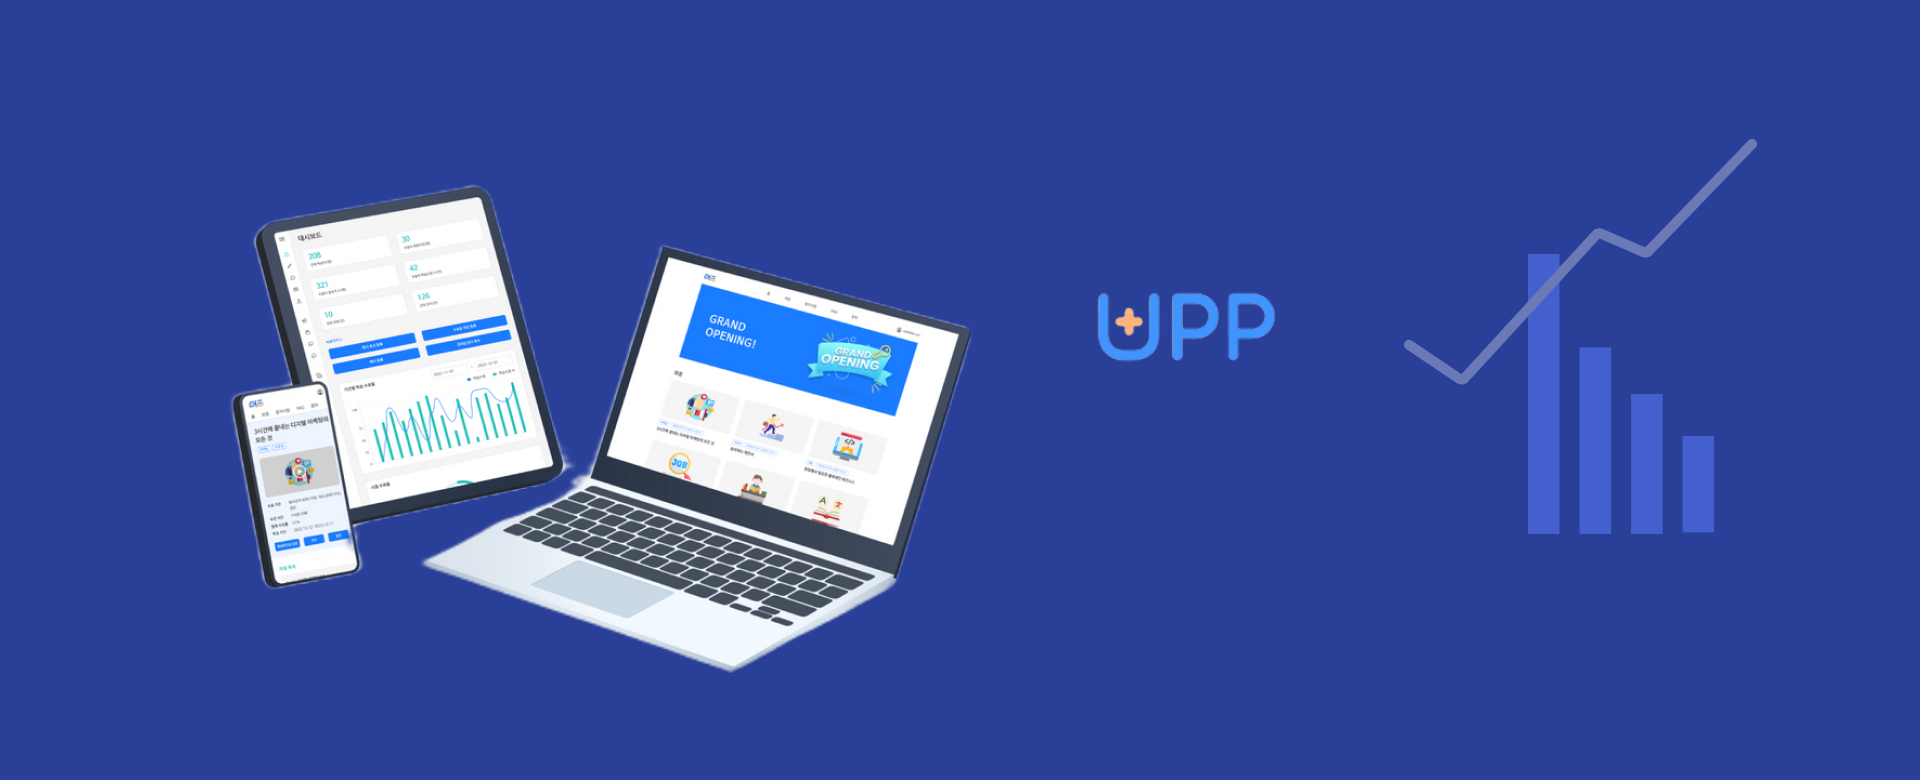
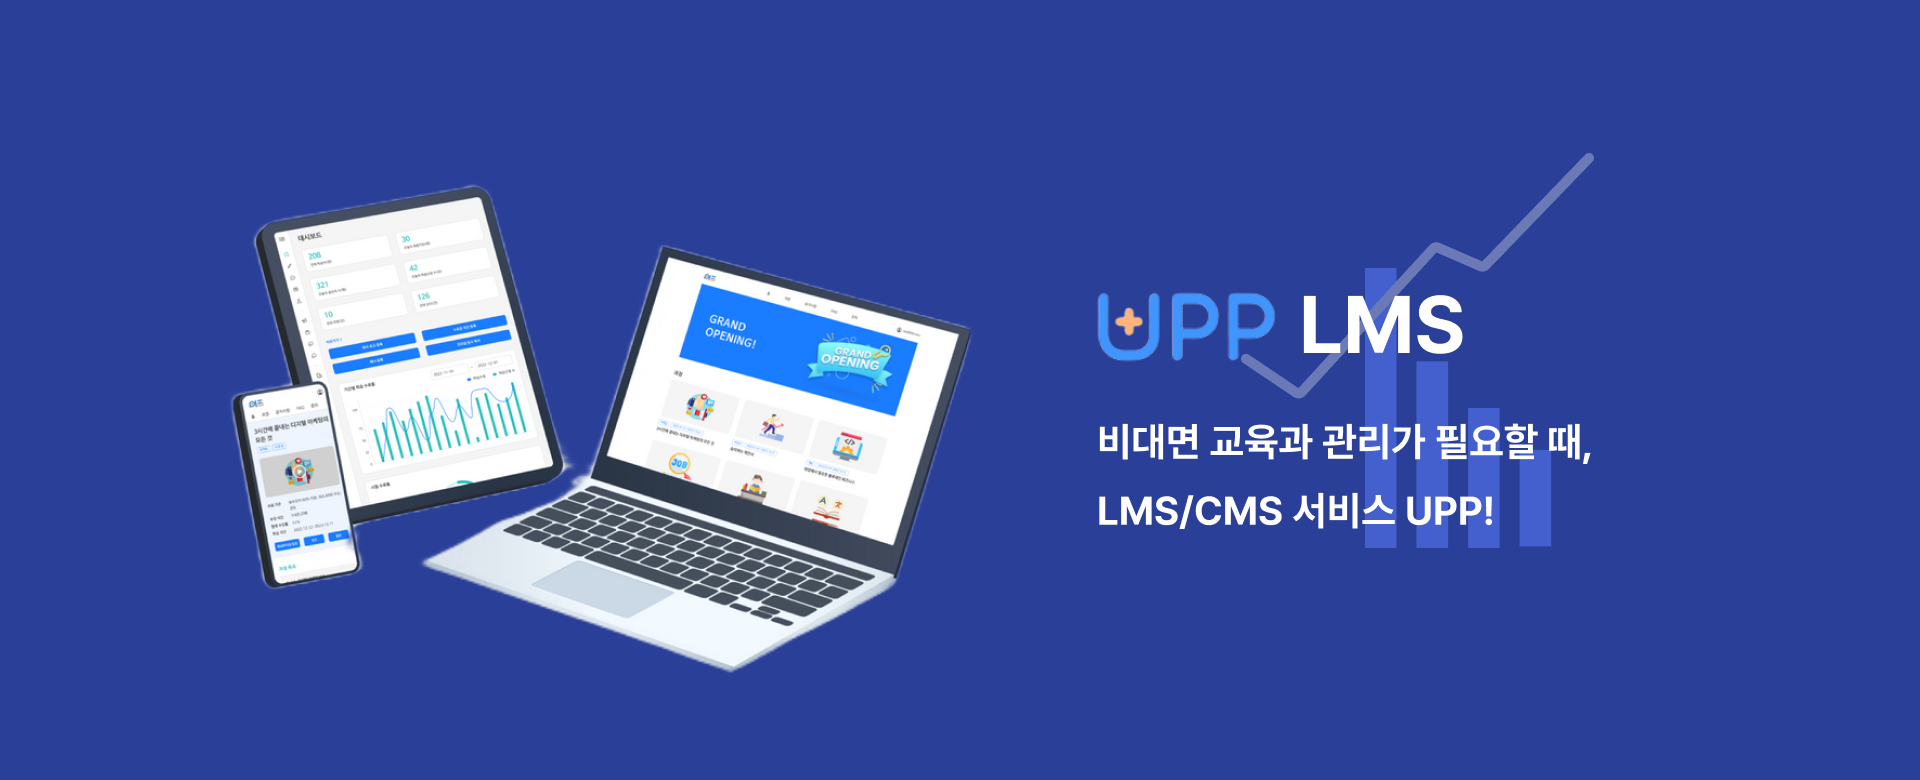
feat(#120) : 배너 레아이웃 수정 전

Changed region(s): [[0.5625, 0.2462, 0.9062, 0.7077], [0.875, 0.1846, 0.9375, 0.2769], [0.8125, 0.1846, 0.8438, 0.2462]]

diff --git a/src/pages/service/lms/index.tsx b/src/pages/service/lms/index.tsx
@@ -111,7 +111,7 @@ const LastBanner = styled.div`
   display: flex;
   justify-content: center;
   align-items: center;
-  background-color: #d9d9d9;
+  background-color: #293f98;
   width: 100vw;
   height: 80vh;
   span {
@@ -130,6 +130,8 @@ const LastBanner = styled.div`
     flex-direction: column;
     position: relative;
     margin-right: 120px;
+    /* color: white; */
+
     a {
       text-decoration: none;
       color: inherit;
@@ -142,24 +144,34 @@ const LastText = styled.div`
   font-size: 48px;
   line-height: 70px;
   font-weight: 700;
+  color: white;
+  margin-bottom: 80px;
 
   text-align: center;
 
   display: inline-block;
 `;
-const FloatBtn = styled.div`
-  display: inline-block;
+
+const FloatBtn2 = styled.div`
+  display: flex;
+  align-items: center;
+  justify-content: center;
+
   width: 200px;
   height: 60px;
-  border-radius: 30px;
-  background-color: #6a6a6a;
-  color: white;
   text-align: center;
   line-height: 60px;
-  cursor: pointer;
-  margin-top: 50px;
+  flex-shrink: 0;
+  margin-top: 30px;
 
-  /* 둥둥 떠있게 하기 */
+  cursor: pointer;
+  z-index: 2;
+
+  border-radius: 31px;
+  border: 2px solid #0070ed;
+  background: #fff;
+  color: black;
+
   animation: float 3s ease-in-out infinite;
   @keyframes float {
     0%,
@@ -171,6 +183,7 @@ const FloatBtn = styled.div`
     }
   }
 `;
+
 const Lms = () => {
   const setCurrHeader = useSetRecoilState(currHeaderAtom);
   useEffect(() => setCurrHeader('transparent'));
@@ -216,12 +229,8 @@ const Lms = () => {
         <span></span>
         <div>
           <LastText>{'교육과 관리를 한 번에,\nUPP와 함께 하세요!'}</LastText>
-          <Link
-            to={
-              'https://upp.notion.site/UPP-LMS-CMS-5cdf38ccd5164fb2b085cf70295d8b4b'
-            }
-          >
-            <FloatBtn>서비스 바로가기</FloatBtn>
+          <Link to={'https://pharm.hdmedi.kr//'}>
+            <FloatBtn2>서비스 보기</FloatBtn2>
           </Link>
         </div>
       </LastBanner>

diff --git a/src/pages/service/lms/Banner.tsx b/src/pages/service/lms/Banner.tsx
@@ -14,27 +14,27 @@ const Container = styled.div`
   line-height: 64px;
 `;
 
-const BannerLms = styled.div`
-  position: absolute;
-  top: 37%;
-  left: 70%;
+// const BannerLms = styled.div`
+//   position: absolute;
+//   top: 37%;
+//   left: 70%;
 
-  font-size: 78px;
-`;
-const BannerText = styled.div`
-  position: absolute;
-  top: 51%;
-  left: 58%;
-`;
+//   font-size: 78px;
+// `;
+// const BannerText = styled.div`
+//   position: absolute;
+//   top: 51%;
+//   left: 58%;
+// `;
 const Banner = () => {
   return (
     <Container>
       {/* <BannerNotebook></BannerNotebook>
       <BannerLogo></BannerLogo> */}
-      <BannerLms>LMS</BannerLms>
-      <BannerText>
+      {/* <BannerLms>LMS</BannerLms> */}
+      {/* <BannerText>
         {'비대면 교육과 관리가 필요할 때,\nLMS/CMS 서비스 UPP!'}
-      </BannerText>
+      </BannerText> */}
     </Container>
   );
 };

diff --git a/src/pages/main/PersuitCard.tsx b/src/pages/main/PersuitCard.tsx
@@ -72,8 +72,8 @@ const StyledUl = styled.ul`
     white-space: break-spaces;
     margin: 15px 0;
     font-size: 13px;
-    font-weight: 600;
-    line-height: 26px;
+    font-weight: 500;
+    line-height: 22px;
     @media screen and (max-width: 500px) {
       font-size: 11px;
       line-height: 20px;

diff --git a/src/pages/main/index.tsx b/src/pages/main/index.tsx
@@ -98,6 +98,11 @@ const Main = () => {
   useEffect(() => {
     AOS.init();
   }, []);
+
+  useEffect(() => {
+    window.scrollTo({ top: 0, behavior: 'smooth' });
+  }, []);
+
   return (
     <Container>
       <Banner></Banner>
